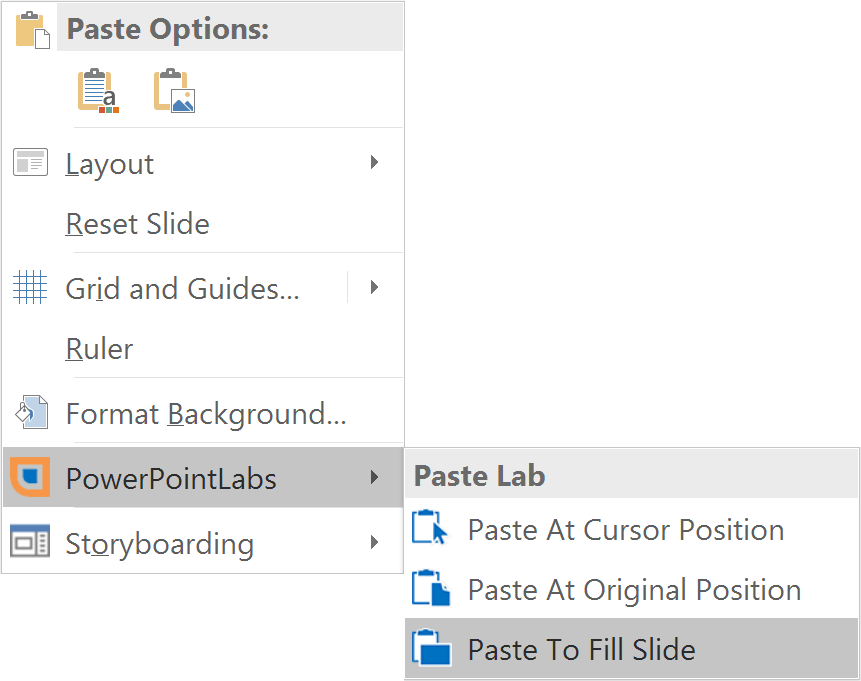
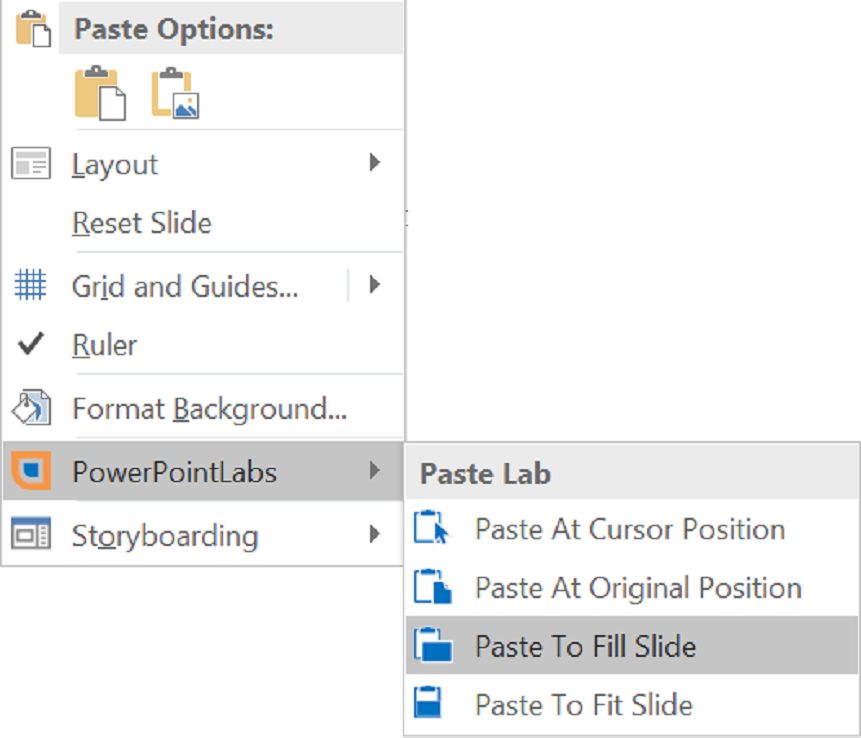
Update paste lab images (#72)
* Updated images for right context menu of Paste Lab

* Additional Changes to pasteLab instructions

Updated to match new image insertions for PasteToFit function

diff --git a/_docs/paste-lab.md b/_docs/paste-lab.md
@@ -29,19 +29,17 @@ Multiple objects can be selected to be used for Paste To Fill Slide, and the pas
 
 **Paste To Fit Slide** helps you paste your copied objects to fit the entire slide.
 
-<img src="{{ site.baseurl }}/img/docs/paste-lab/image_14.png" width="800">
-
-First, copy a picture using `Copy` under the right-click context menu or the `ctrl-c` keyboard shortcut.
+Similar to `Paste To Fill Slide` previously, copy a picture using `Copy` under the right-click context menu or the `ctrl-c` keyboard shortcut.
 
 > **Note:** All Paste Lab features requires a copied object. You can also copy pictures from other applications on your computer.
 
 Then, `right-click` on the slide, and select `Paste To Fit Slide` under PowerPointLabs.
 
-<img src="{{ site.baseurl }}/img/docs/paste-lab/image_15.png" width="350">
+<img src="{{ site.baseurl }}/img/docs/paste-lab/image_14.png" width="350">
 
 The objects are now pasted to fit the entire slide.
 
-<img src="{{ site.baseurl }}/img/docs/paste-lab/image_16.png" width="700">
+<img src="{{ site.baseurl }}/img/docs/paste-lab/image_15.png" width="700">
 
 > **Note:** The pictures will always be within the bounds of the slide. 
 
